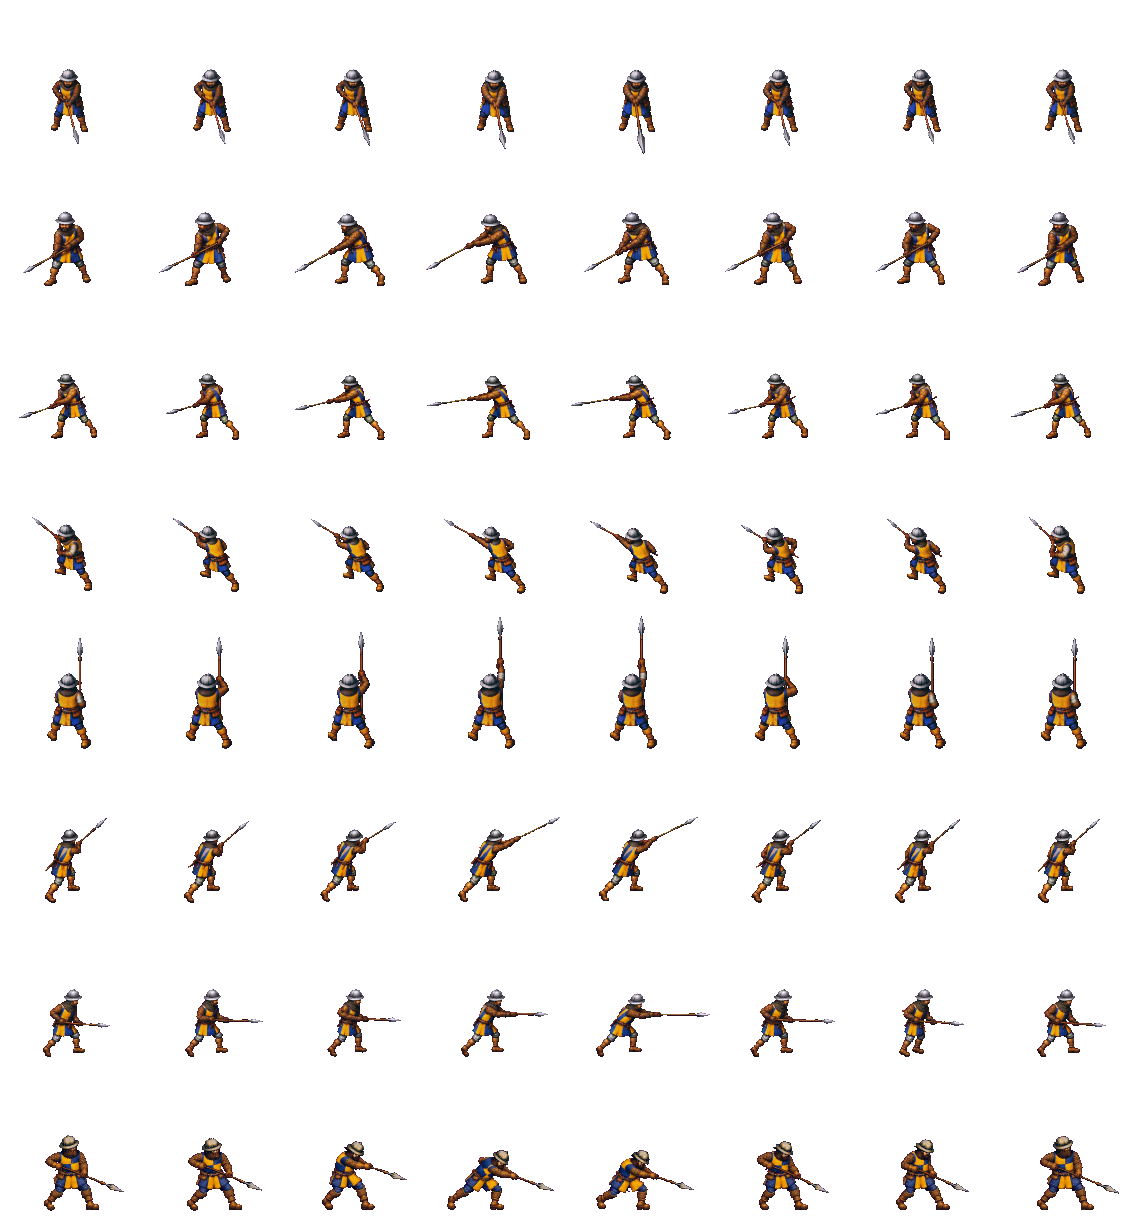
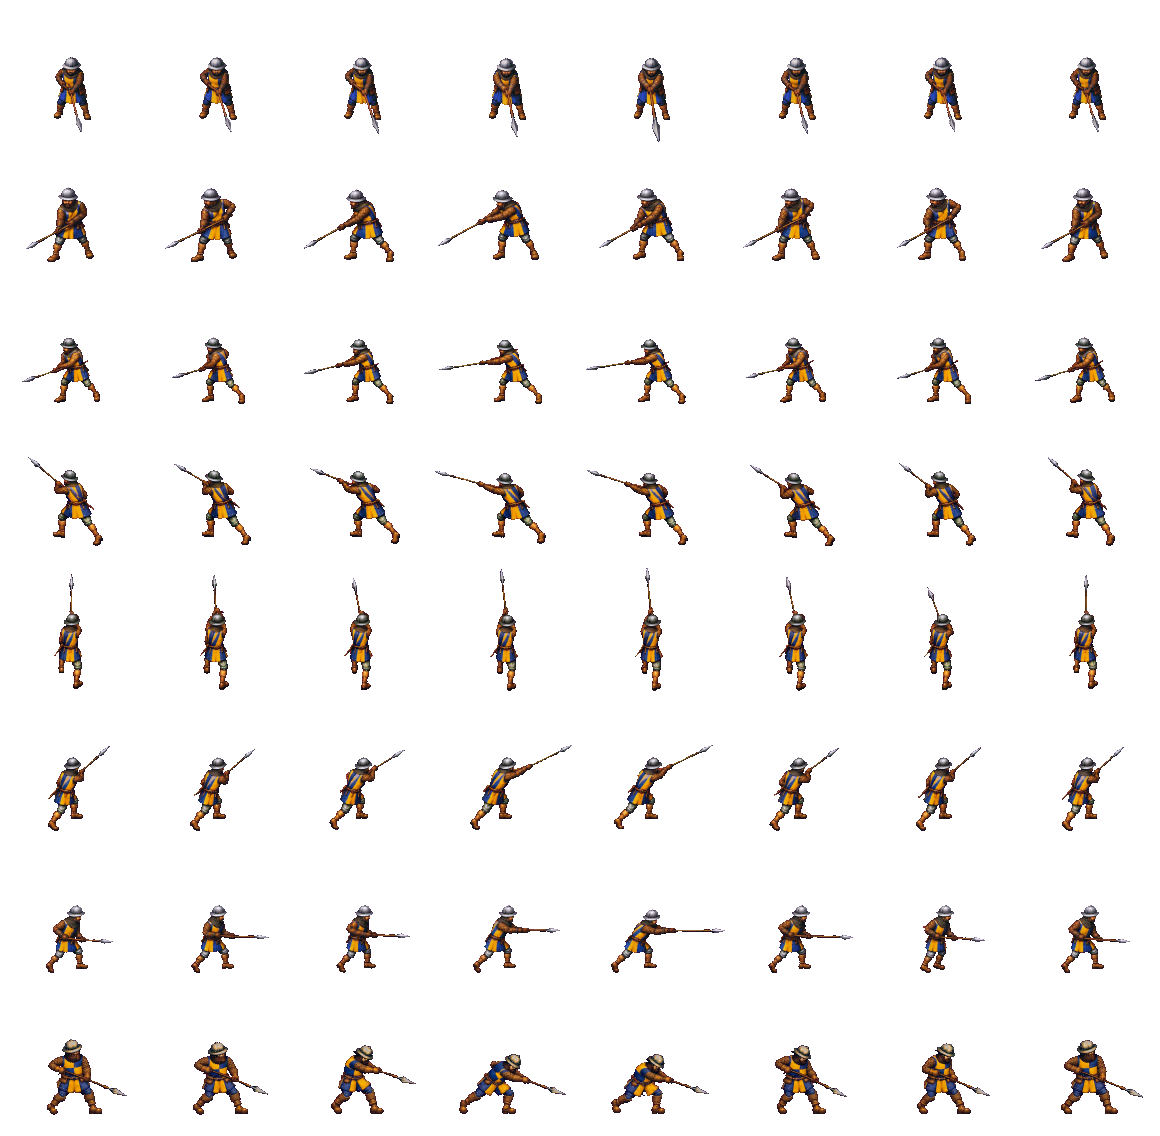
Aanvallen NW en N van de speerman in de stijl van het staande vel
NW kwam goed: mat, de bouw van vel 1, en de punt op twee tegels 6 pixels van de romp van de buurman. N raakt ook (13
pixels), maar houdt de speer nu boven zijn helm in plaats van ernaast en helt in twee beelden naar links; voorlopig, tot
een betere N. Staan en lopen blijven pixel voor pixel hetzelfde.

diff --git a/beelden/beschrijving.js b/beelden/beschrijving.js
@@ -544,12 +544,12 @@
     "speerman": {
      "naam": "speerman",
      "cel": [
-      152,
-      164
+      155,
+      154
      ],
      "anker": [
-      73,
-      136
+      76,
+      126
      ],
      "snelheid": 1.5,
      "richtingen": [
@@ -599,12 +599,12 @@
        "fps": 10,
        "herhaal": false,
        "cel": [
-        142,
-        154
+        145,
+        142
        ],
        "anker": [
-        68,
-        132
+        71,
+        120
        ]
       },
       "sterven": {

diff --git a/ontwerp/beelden-van-de-generator.md b/ontwerp/beelden-van-de-generator.md
@@ -399,6 +399,9 @@ generator van 1,7 MB; op spelmaat is het verschil ruis) en lopen in het spel. Wa
 - **De stijl van de aanvallen** (22 okt): aanvallen W, NW en N kwamen nog uit de eerste, glimmende reeks; opnieuw met
   "keep the pose, the spear and the thrust of your last version [...] exactly, but draw him with exactly the style and
   proportions of the attached sheet 1 [...]". Aanvallen W kwam zo goed: de punt op (-66, -35) tegen (-64, -40).
+  Aanvallen NW ook: (-70, -75) tegen (-64, -72) op twee tegels. Aanvallen N raakt (-13, -100) tegen (0, -104), maar
+  houdt de speer nu met beide handen boven zijn helm in plaats van rechts ernaast, en in beeld 3 en 7 helt hij naar
+  links; voorlopig.
   Aanvallen ZW kwam eerst van opzij (als W) en met twee beelden tegen elkaar; goed met "redo 11 again: this is
   Attacking SW, not W. He faces south-west, down and to the left, TOWARDS the viewer at three-quarters [...] the spear
   [...] pointing down and to the left at about 30 degrees below horizontal [...] almost as far to the left of his body as
